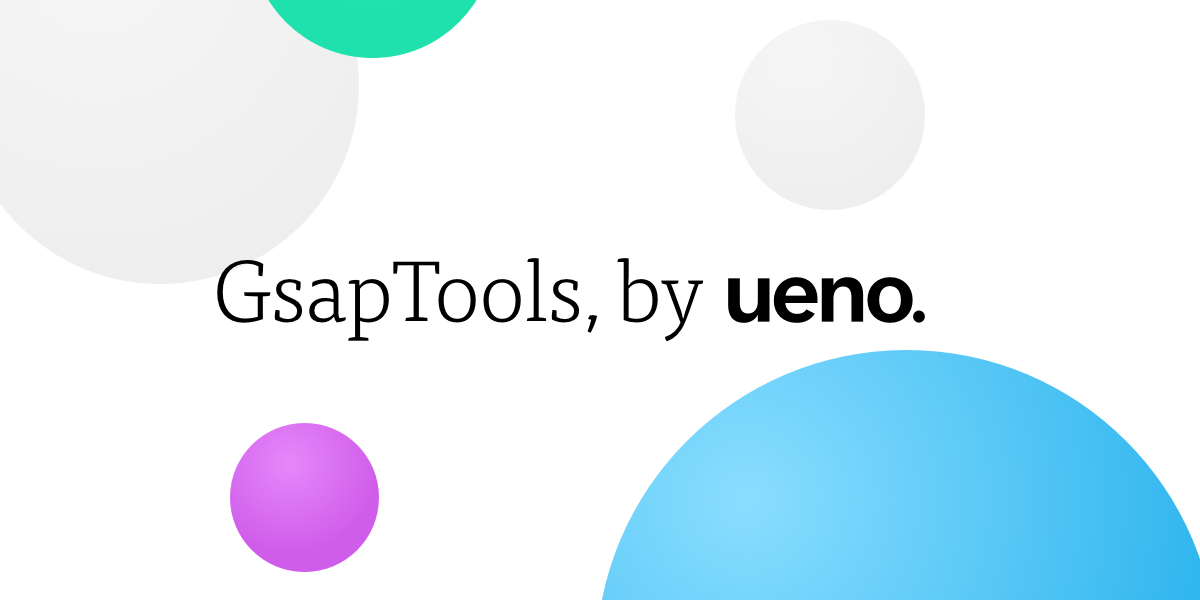
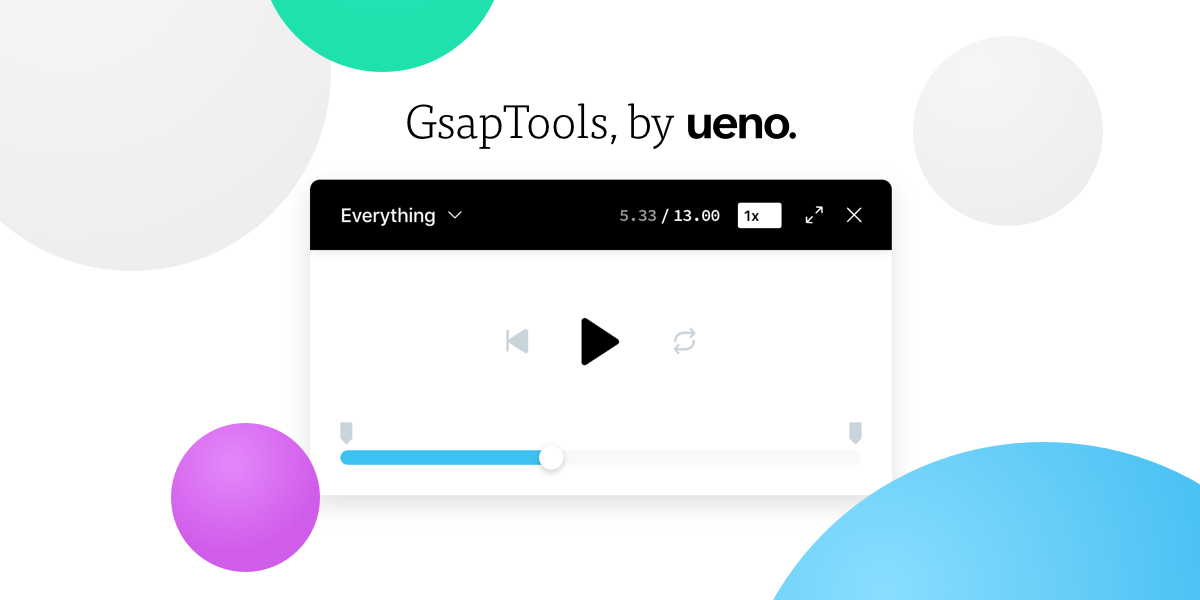
Add an examples list, a note about react, edit share image

diff --git a/src/App.js b/src/App.js
@@ -29,9 +29,10 @@ export default class App extends PureComponent {
           hasBackground
           title="GsapTools, by Ueno"
           subheading="A simple tool to debug GSAP animations"
-          text="Managing and debugging Tween and Timeline in GSAP is a hassle, even with
-          the official dev tools. So we created GsapTools, an extension that makes it all so much
-          easier. Click on the GSAP button to see in in action, and scroll down to know more."
+          text={<span>Managing and debugging Tween and Timeline in GSAP is a hassle, even with the
+          official dev tools. So we created GsapTools, a tool for React<sup>1</sup>, that makes it
+          all so much easier. Click on the GSAP button to see in in action, and scroll down
+          to know more.</span>}
         >
           <h2>Installation</h2>
 
@@ -264,9 +265,16 @@ componentWillUnmount() {
           </Code>
 
           <Reference>
+            <h2>Examples</h2>
+
+            <ul data-name="list">
+              <li>The GsapTools’ website use the tool itself, you can see it in action here: <a href="https://github.com/ueno-llc/gsap-tools/blob/react-gh-pages/src/components/app-layout/AppLayout.js#L23" target="_blank" rel="noopener noreferrer">AppLayout.js</a> and <a href="https://github.com/ueno-llc/gsap-tools/blob/react-gh-pages/src/components/hero/Hero.js#L48" target="_blank" rel="noopener noreferrer">Hero.js</a>.</li>
+              <li>There is also more examples with Tween and Timeline also <a href="https://github.com/JeremDsgn/gsap-test/tree/master/src/components" target="_blank" rel="noopener noreferrer">here</a>.</li>
+            </ul>
+
             <h2>Shortcuts</h2>
 
-            <ul>
+            <ul data-name="shortcuts">
               <li><code>space</code> Play/pause</li>
               <li><code>R</code> Reset in/out markers</li>
               <li><code>H</code> Toggle UI</li>
@@ -366,10 +374,17 @@ componentWillUnmount() {
           subheading="Lend a helping hand?"
         >
           <p>If you noticed any issues, have any ideas, or want to open pull requests, go check out
-          the <a href="https://github.com/ueno-llc/gsap-tools" target="_blank" rel="noopener noreferrer">github repository</a>.
+          the <a href="https://github.com/ueno-llc/gsap-tools" target="_blank" rel="noopener noreferrer">GitHub repository</a>.
           And if you want to know more about who we are and what we
           do, <a href="http://ueno.co" target="_blank" rel="noopener noreferrer">here’s a link for that</a>.
           </p>
+        </Content>
+
+        <Content>
+          <ol>
+            <li>GsapTools only works with React for the moment, but we plan to make
+            it works on other popular front-end library in the future.</li>
+          </ol>
         </Content>
       </AppLayout>
     );

diff --git a/src/components/reference/Reference.scss b/src/components/reference/Reference.scss
@@ -1,4 +1,4 @@
-/* stylelint-disable selector-max-type */
+/* stylelint-disable selector-max-type, selector-no-qualifying-type, max-nesting-depth */
 @import '../../styles/config.scss';
 
 .reference {
@@ -6,7 +6,6 @@
 
   code {
     font-size: 0.85em;
-    // color: #ad0303;
   }
 
   p {
@@ -17,23 +16,38 @@
     @include reset-list;
 
     margin-bottom: 3em;
-    max-width: (500px/$font-size) * 1em;
 
     line-height: 2.5;
 
     @media (min-width: $min-mobile) {
       display: flex;
       flex-wrap: wrap;
-    }
 
-    li {
-      flex: none;
+      &[data-name='list'] {
+        padding-left: 1em;
 
-      display: flex;
-      align-items: center;
+        li::before {
+          content: '\2013';
 
-      @media (min-width: $min-mobile) {
-        width: 50%;
+          position: absolute;
+
+          margin-left: -20px;
+
+          color: #cacaca;
+        }
+      }
+
+      &[data-name='shortcuts'] {
+        max-width: (500px/$font-size) * 1em;
+
+        li {
+          flex: none;
+
+          display: flex;
+          align-items: center;
+
+          width: 50%;
+        }
       }
     }
 

diff --git a/src/components/content/Content.js b/src/components/content/Content.js
@@ -13,7 +13,7 @@ export default class Content extends PureComponent {
     children: PropTypes.node,
     title: PropTypes.string,
     subheading: PropTypes.string,
-    text: PropTypes.string,
+    text: PropTypes.node,
     hasBackground: PropTypes.bool,
   }
 
@@ -26,8 +26,8 @@ export default class Content extends PureComponent {
           <Row>
             <div className="content__col">
               <div className="content__inner">
-                <h1 className="content__heading">{title}</h1>
-                <p className="content__subheading">{subheading}</p>
+                {title && <h1 className="content__heading">{title}</h1>}
+                {subheading && <p className="content__subheading">{subheading}</p>}
                 {text && <p className="content__copy">{text}</p>}
                 {children}
               </div>

diff --git a/src/components/content/Content.scss b/src/components/content/Content.scss
@@ -5,12 +5,6 @@
 
   overflow: hidden;
 
-  &:nth-child(4) {
-    .content__inner {
-      padding-top: 0;
-    }
-  }
-
   &__col {
     @include grid-col;
 
@@ -26,13 +20,13 @@
     background: #f9f9f9;
 
     @media (min-width: $min-tablet) {
-      margin-top: -80px;
+      transform: translateY(-80px);
     }
 
     @media (min-width: $min-desktop) {
-      margin-top: -100px;
-
       background: transparent;
+
+      transform: translateY(-100px);
     }
   }
 
@@ -108,5 +102,16 @@
   a { // stylelint-disable-line
     @include reset-anchor;
     @include link;
+  }
+
+  ol {
+    @include reset-list;
+
+    opacity: 0.75;
+
+    width: 85%;
+
+    font-size: 18px;
+    list-style: decimal;
   }
 }
